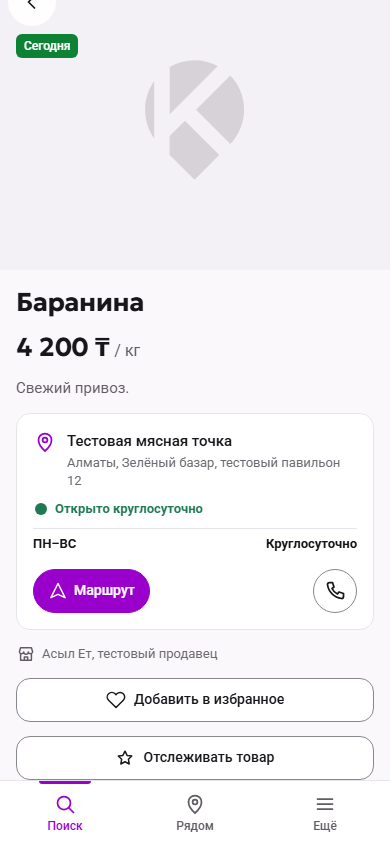
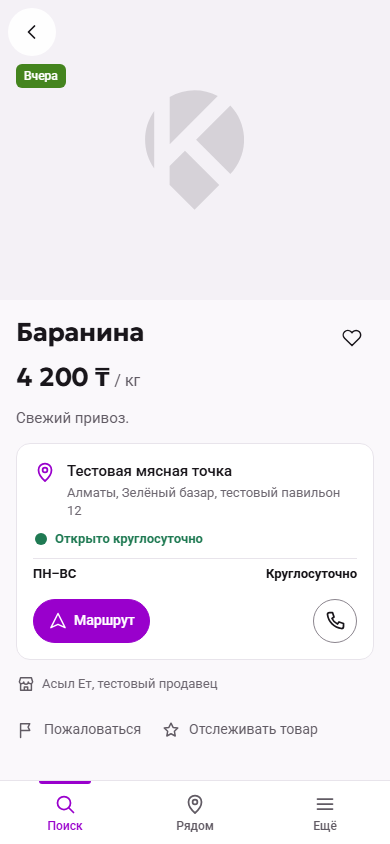
Amend Offer detail heart placement and compact text actions

diff --git a/tests/e2e/buyer-offer-reports.spec.ts b/tests/e2e/buyer-offer-reports.spec.ts
@@ -24,7 +24,7 @@ test('buyer draft survives Back/login; operator disposition keeps buyer text pri
     const set=await createCardChangeSet(sellerId,cardCreateBodySchema.parse({title:'Абрикосы отчётэ2е',productId:null,price:'1200',unit:{code:'package'},pack:{amount:'500',unit:'g'},sellerComment:'Синтетический товар',photoIds:[],points:[{locationId:seller.locations[0]!.id}]}),{database:db});
     const confirmed=await confirmSellerChangeSet(sellerId,set.id,{database:db});const offerId=confirmed.items[0]!.resultOffer!.id;
     cardId=(await pool.query('SELECT card_id FROM offers WHERE id=$1',[offerId])).rows[0].card_id;
-    await page.goto(`/offers/${offerId}`);await page.getByRole('button',{name:'Пожаловаться на карточку'}).click();
+    await page.goto(`/offers/${offerId}`);await page.getByRole('button',{name:'Пожаловаться',exact:true}).click();
     await page.getByRole('button',{name:'Цена не совпадает',exact:true}).click();
     await expect(page.getByLabel('Комментарий · необязательно')).toBeVisible();await expect(page.getByRole('button',{name:'Далее',exact:true})).toHaveCount(0);
     const privateText='PRIVATE покупатель: персональные сведения';await page.getByLabel('Комментарий · необязательно').fill(privateText);
@@ -57,7 +57,7 @@ test('buyer draft survives Back/login; operator disposition keeps buyer text pri
     await op.goto('/operator/reports');await op.getByRole('button',{name:'Закрытые',exact:true}).click();await op.getByRole('article').filter({hasText:'Абрикосы отчётэ2е'}).getByRole('button',{name:'Рассмотреть'}).click();
     await expect(op.getByRole('region',{name:'Исторический итог'})).toContainText('Карточка снята');await expect(op.getByRole('region',{name:'Сейчас'})).toContainText('На витрине');await expect(op.getByRole('region',{name:'Сейчас'})).toContainText('Позднее возвращена оператором');
     await info.attach('operator-returned-card-closed-report',{body:await op.screenshot(),contentType:'image/png'});
-    await page.goto(`/offers/${offerId}`);await page.getByRole('button',{name:'Пожаловаться на карточку'}).click();await page.getByRole('button',{name:'Другое',exact:true}).click();await page.getByLabel('Комментарий · необязательно').fill('Повторное сообщение');await page.getByRole('button',{name:'Отправить жалобу',exact:true}).click();
+    await page.goto(`/offers/${offerId}`);await page.getByRole('button',{name:'Пожаловаться',exact:true}).click();await page.getByRole('button',{name:'Другое',exact:true}).click();await page.getByLabel('Комментарий · необязательно').fill('Повторное сообщение');await page.getByRole('button',{name:'Отправить жалобу',exact:true}).click();
     await expect(page.getByText('Вы уже сообщили об этом предложении. Первое сообщение сохранено.',{exact:true})).toBeVisible();
     const saved=await pool.query('SELECT buyer_text FROM offer_reports WHERE card_id=$1',[cardId]);expect(saved.rows).toHaveLength(1);expect(saved.rows[0].buyer_text).toBe(privateText);
   }finally{

diff --git a/tests/e2e/offer-favourites.spec.ts b/tests/e2e/offer-favourites.spec.ts
@@ -99,3 +99,39 @@ test('list login never adds; Offer expiring during heart login is not saved; lis
     await pool.query('DELETE FROM buyer_offer_favourites WHERE offer_id=$1 OR user_id=$2',[offer,user]);await pool.query('DELETE FROM offers WHERE id=$1',[offer]);await pool.query('DELETE FROM locations WHERE id=$1',[point]);await pool.query('DELETE FROM sellers WHERE id=$1',[seller]);await pool.query("DELETE FROM auth_sessions WHERE user_id IN (SELECT id FROM users WHERE phone_e164=ANY($1::text[]))",[['+77000280401','+77000280402','+77000280411']]);await pool.query('DELETE FROM auth_otp_challenges WHERE phone_e164=ANY($1::text[])',[['+77000280401','+77000280411']]);await pool.query('DELETE FROM users WHERE phone_e164=ANY($1::text[])',[['+77000280401','+77000280402','+77000280411']]);await pool.end();
   }
 });
+
+test('detail actions retain touch targets and wrap at narrow widths and enlarged text', async ({ page }, info) => {
+  test.skip(info.project.name !== 'mobile', 'Approved mobile RU boundary');
+  await page.goto('/offers/' + seedIds.lambOffer);
+  const heart = page.getByTestId('favourite-heart');
+  const report = page.getByRole('button', { name: 'Пожаловаться', exact: true });
+  const tracking = page.getByRole('button', { name: 'Отслеживать товар', exact: true });
+  await expect(heart).toHaveAccessibleName('Добавить в избранное');
+  await expect(tracking).toBeEnabled();
+  for (const width of [390, 320]) {
+    await page.setViewportSize({ width, height: 844 });
+    for (const action of [heart, report, tracking]) {
+      const box = await action.boundingBox();
+      expect(box!.width).toBeGreaterThanOrEqual(44);
+      expect(box!.height).toBeGreaterThanOrEqual(44);
+    }
+    const layout = await page.locator('.offer-text-actions').evaluate(el => {
+      const boxes = [...el.querySelectorAll('button')].map(button => button.getBoundingClientRect());
+      return { overflow: el.scrollWidth > el.clientWidth, wraps: boxes[1]!.top > boxes[0]!.top };
+    });
+    expect(layout.overflow).toBe(false);
+    if (width === 320) expect(layout.wraps).toBe(true);
+  }
+  await page.addStyleTag({ content: '.kaida .offer-text-action{font-size:28px;line-height:40px}' });
+  const enlarged = await page.locator('.offer-text-actions').evaluate(el => ({ overflow: el.scrollWidth > el.clientWidth, buttons: [...el.querySelectorAll('button')].map(button => ({height:button.getBoundingClientRect().height, font:parseFloat(getComputedStyle(button).fontSize)})) }));
+  expect(enlarged.overflow).toBe(false);
+  for (const action of enlarged.buttons) { expect(action.height).toBeGreaterThanOrEqual(44); expect(action.font).toBe(28); }
+  await report.click();
+  await expect(page.getByRole('heading', { name: 'Пожаловаться на карточку', exact: true })).toBeVisible();
+  await page.getByRole('button', { name: 'Назад', exact: true }).click();
+  await expect(report).toBeFocused();
+  await heart.click();
+  await expect(page.getByRole('dialog')).toBeVisible();
+  await page.getByRole('button', { name: 'Закрыть', exact: true }).click();
+  await expect(heart).toHaveAttribute('aria-pressed', 'false');
+});

diff --git a/src/app/(buyer)/offers/[id]/BuyerOfferView.tsx b/src/app/(buyer)/offers/[id]/BuyerOfferView.tsx
@@ -88,19 +88,21 @@ export function BuyerOfferView({ offer, reporting = false }: { offer: BuyerOffer
         <OfferDetails
           offer={offer}
           back={<BackButton returnTo={returnTo} />}
+          titleAction={!preview && <button data-testid="favourite-heart" type="button" className="ib offer-favourite" aria-label={fav.active ? t('fav.saved') : t('fav.save')} aria-pressed={fav.active} aria-busy={fav.pendingId !== null} disabled={!fav.available || fav.pendingId !== null} onClick={fav.toggle}><FavouriteHeart active={fav.active} /></button>}
           footer={(
             <>
-              {reporting && previewReturn === null && <button id="report-entry" type="button" className="btn btn-o w" onClick={() => setReportOpen(true)}>{t('report.title')}</button>}
-              {!preview && <button data-testid="favourite-heart" type="button" className="btn btn-o w" aria-pressed={fav.active} aria-busy={fav.pendingId !== null} disabled={!fav.available || fav.pendingId !== null} onClick={fav.toggle}><FavouriteHeart active={fav.active} />{fav.active ? t('fav.saved') : t('fav.save')}</button>}
+              {(reporting && previewReturn === null || interest.available) && <div className="offer-text-actions">
+                {reporting && previewReturn === null && <button id="report-entry" type="button" className="act offer-text-action" onClick={() => setReportOpen(true)}><Ic name="flag" className="sm" /><span>{t('report.entry')}</span></button>}
+                {interest.available && (
+                  <button type="button" className="act offer-text-action" aria-pressed={interest.active} aria-busy={interest.pending} disabled={interest.pending} onClick={(event) => void interest.toggle(event)}>
+                    <Ic name={interest.active ? 'starf' : 'star'} className="sm" />
+                    <span>{t('offer.trackProduct')}</span>
+                  </button>
+                )}
+              </div>}
               {fav.error && <p className="emsg" role="alert">{t('fav.writeError')}</p>}
               {!preview && fav.state.kind === 'error' && <div role="alert"><p className="emsg">{t('fav.loadError')}</p><button type="button" className="btn btn-o w" onClick={() => void fav.reload()}>{t('cabinet.retry')}</button></div>}
               {fav.unavailable && <p className="b" role="status">{t('fav.unavailable')}</p>}
-              {interest.available && (
-                <button type="button" className="btn btn-o w" aria-pressed={interest.active} aria-busy={interest.pending} disabled={interest.pending} onClick={(event) => void interest.toggle(event)}>
-                  <Ic name={interest.active ? 'starf' : 'star'} className="sm" />
-                  {t('offer.trackProduct')}
-                </button>
-              )}
               {interest.error && <div className="fld"><p className="emsg" role="alert"><Ic name="alert" />{t('search.interestError')}</p></div>}
             </>
           )}

diff --git a/src/app/(buyer)/_ui/offer-details.tsx b/src/app/(buyer)/_ui/offer-details.tsx
@@ -119,13 +119,20 @@ function SellerComment({ offer }: { offer: BuyerOfferPage }) {
   );
 }
 
-export function OfferDetails({ offer, back, inert = false, footer }: { offer: BuyerOfferPage; back: ReactNode; inert?: boolean; footer?: ReactNode }) {
+export function OfferDetails({ offer, back, inert = false, titleAction, footer }: { offer: BuyerOfferPage; back: ReactNode; inert?: boolean; titleAction?: ReactNode; footer?: ReactNode }) {
   return (
     <>
       <Gallery offer={offer} back={back} />
       <article style={{ display: 'flex', flexDirection: 'column', gap: 14, padding: 16 }} aria-labelledby="offer-title">
-        <h1 className="h1" id="offer-title" lang={offer.product.nameLocale}>{offer.product.name}</h1>
-        <PriceLine offer={offer} large />
+        {titleAction ? (
+          <div className="offer-heading">
+            <div className="offer-heading-copy">
+              <h1 className="h1" id="offer-title" lang={offer.product.nameLocale}>{offer.product.name}</h1>
+              <PriceLine offer={offer} large />
+            </div>
+            {titleAction}
+          </div>
+        ) : <><h1 className="h1" id="offer-title" lang={offer.product.nameLocale}>{offer.product.name}</h1><PriceLine offer={offer} large /></>}
         <SellerComment
           key={`${offer.sellerCommentTranslation?.status ?? 'original'}:${offer.sellerCommentTranslation?.status === 'translated' ? offer.sellerCommentTranslation.locale : ''}`}
           offer={offer}

diff --git a/src/app/seller/kaida-app.css b/src/app/seller/kaida-app.css
@@ -115,3 +115,14 @@
 .kaida .act .ic{flex:none;text-decoration:none}
 .kaida .act:disabled{color:var(--ink3);cursor:default}
 .kaida .act:focus-visible{outline:2px solid var(--focus);outline-offset:2px;border-radius:4px}
+
+/* Offer favourites: PO-approved detail presentation; text and targets wrap without shrinking. */
+.kaida .offer-heading{display:flex;align-items:flex-start;gap:12px}
+.kaida .offer-heading-copy{flex:1;min-width:0;display:flex;flex-direction:column;gap:14px;overflow-wrap:anywhere}
+.kaida .offer-favourite{width:44px;height:44px;color:var(--ink)}
+.kaida .offer-favourite[aria-pressed="true"]{color:var(--primary-text)}
+.kaida .offer-favourite:disabled{color:var(--ink3);cursor:default}
+.kaida .offer-favourite:focus-visible{outline:2px solid var(--focus);outline-offset:2px}
+.kaida .offer-text-actions{display:flex;flex-wrap:wrap;align-items:center;column-gap:20px;row-gap:4px}
+.kaida .offer-text-action{min-width:44px;max-width:100%;flex:0 1 auto;text-decoration:none;color:var(--ink2)}
+.kaida .offer-text-action>span{min-width:0;overflow-wrap:anywhere}

diff --git a/src/i18n/messages.ts b/src/i18n/messages.ts
@@ -13,6 +13,7 @@ export const ru = {
   'fav.loadError': "Не удалось загрузить избранное. Повторите.",
   'fav.writeError': "Не удалось изменить избранное. Повторите.",
   'fav.back': "Назад в избранное",
+  'report.entry':'Пожаловаться',
   'report.title':'Пожаловаться на карточку',
   'report.whatWrong':'Что не так?',
   'report.reason.price_mismatch':'Цена не совпадает',
@@ -895,6 +896,7 @@ export const kk = {
   'fav.loadError': "Таңдаулыларды жүктеу мүмкін болмады. Қайталаңыз.",
   'fav.writeError': "Таңдаулыларды өзгерту мүмкін болмады. Қайталаңыз.",
   'fav.back': "Таңдаулыларға оралу",
+  'report.entry':'Шағымдану',
   'report.title':'Карточкаға шағымдану',
   'report.whatWrong':'Не дұрыс емес?',
   'report.reason.price_mismatch':'Баға сәйкес емес',

diff --git a/docs/slices/offer-favourites/SLICE_CONTRACT.md b/docs/slices/offer-favourites/SLICE_CONTRACT.md
@@ -20,6 +20,12 @@ Buyer saves a specific Offer at its trading point with a heart, revisits its cur
 - Existing guest modal preserves intent for the exact Offer+point after explicit heart click; no save before login. Successful login revalidates and performs that one save automatically, then returns to same Offer/list context; cancel leaves original screen, no write. If unavailable after login, show unavailable, no save. Direct favourites visit signed out shows sign-in action; successful login loads only that account's list, never auto-adds an Offer.
 - Empty list: «Пока нет избранных предложений» / «Сохраняйте предложения сердечком на странице товара.» / existing Search action. Loading uses card-shaped skeletons; service failure is a retryable error, never converted into unavailable/deleted/empty. Logout/account switch immediately clears private list and pending intent; late responses cannot restore old-account data.
 
+## 2.1 PO presentation amendment — 2026-10-13
+
+Approved for the current Offer-detail acceptance build: move the existing Offer heart below the gallery, right-aligned beside the title/price block. Icon only, no visible label, border or background; outline unsaved and filled saved, using existing app icon/colours (the PO annotation marks placement, not red). Preserve at least44px by44px touch target, keyboard focus, accessible «Добавить в избранное» / «В избранном», aria-pressed/busy and unchanged pending/save/login/error behaviour.
+
+Replace the full-width report and Product tracking controls with a compact horizontal row of borderless, panel-free text actions: existing flag + «Пожаловаться» and existing star + «Отслеживать товар». Preserve report entry/return focus, its existing flow/auth/privacy and Product selection semantics. Both actions keep at least44px touch targets and existing readable text size. Wrap whole actions onto another row at narrow widths or large text; if one action itself cannot fit, its text wraps by words rather than shrinking text/targets or overflowing. Seller previews suppress these mutations as before. This presentation-only amendment supersedes the prior detail-control placement, visible heart label and report-entry label; list/unavailable/media/API/data boundaries remain unchanged.
+
 ## 3. Approved unavailable exception
 
 [UNAVAILABLE_PROPOSAL.md](UNAVAILABLE_PROPOSAL.md) supersedes the previous universal neutral-tombstone draft. Use one recognisable private saved card for an existing non-operator-removed Offer at the same point after confirmation expiry OR Seller switch-off. Expired-active uses only ordinarily authorized current attached cover; switched-off always uses existing neutral KAIDA placeholder and exposes no photo locator. Retain confirmed title, public seller display name and point name; no price, address/comment, contact/route/purchase actions, detail link or actuality badge. Explicit unavailable status, muted accents, full text contrast; removal usable. Restore normal presentation only when exact same Offer+point passes common buyer eligibility again.

diff --git a/docs/slices/offer-favourites/ACCEPTANCE.md b/docs/slices/offer-favourites/ACCEPTANCE.md
@@ -4,6 +4,12 @@ PO approval is recorded in the owning contract and the explicit S1/S5, actuality
 
 The new heart and private list use current Offer data. An owner-only unavailable projection retains only title, public seller name and point name. Expired-active uses the current cover only through existing public media authorization; switched-off never returns a photo locator. Deleted/operator-removed entries are absent from both list and count. The additive `0028` table retains only the approved internal reference and cascades on account erasure. PO wording revision supersedes previous disable/notice/temporary-label instructions: Product button «Отслеживать товар» in both selected/unselected states, heart «Добавить в избранное»/«В избранном». Authentication/error/accessibility wording follows these labels. Existing S13 selection behavior/API/data remain intact; no tracking notifications are activated. Public Search, Nearby, detail and media predicates are unchanged.
 
+## PO presentation amendment — 2026-10-13
+
+Approved icon-only heart below the gallery beside title/price; borderless flag «Пожаловаться» and star «Отслеживать товар» row. Existing handlers, accessibility state/login, report focus return and privacy remain unchanged. At390px the two text actions share one row; at320px they wrap onto separate rows. Doubled text keeps targets at least44px, readable wrapping and no action-row horizontal overflow.
+
+Local amended-head lint/types/production build PASS. Affected production-browser regressions:23 PASS/5 existing mobile-boundary skips, including new narrow/large-text targets, report return focus and guest-heart cancellation. Final amended-SHA full CI evidence belongs to PR175; earlier verification below describes the preceding implementation revision.
+
 ## Automated proof
 
 Local lint, route types/TypeScript and production build pass. Full unit regression: 523 passing tests. Seven real PostgreSQL checks cover owner isolation, anonymous/override rejection, exact point identity, current prices, expiry boundary, inactive photo stripping, restoration, moderation/deletion/changed-point exclusion, retained-reference removal, concurrent idempotency, save-versus-moderation locking, and additive upgrade preservation of every pre-existing table including nonempty S13/photos.
@@ -32,6 +38,10 @@ Both new mobile browser flows pass against the production build: guest cancellat
 Acceptance scope: mobile Russian UI; Kazakh text remains provisional under the existing localization gate. STOP for PO acceptance of the exact final SHA. Do not merge the implementation or tag. Voice/translation remain paused; tracking, paid services and public launch are unauthorized.
 
 ## Implemented screenshots
+
+![Narrow detail with wrapped actions](evidence/detail-narrow.png)
+
+![Doubled text at320px](evidence/detail-large-text.png)
 
 ![Approved Product action and Offer heart labels](evidence/product-action.png)
 

diff --git a/docs/slices/buyer-offer-reports/SLICE_CONTRACT.md b/docs/slices/buyer-offer-reports/SLICE_CONTRACT.md
@@ -116,3 +116,5 @@ Clarification acceptance extension: after return, the seller replaces the report
 ## 7. Approved queue insertion
 
 PO approved `buyer-offer-reports` as the next local development slice after the closed auth checkpoint, a bounded subset of S-REVIEWS/S-OPERATOR. The rest of those workstreams and other candidate order remain unchanged. Docs publication precedes a separate implementation branch. Full branch CI and PO manual acceptance are required before implementation merge/tag. No real-user reporting, production retention approval, new Issues or voice research resume.
+
+PO presentation amendment, 2026-10-13: the current Offer-favourites acceptance build uses the icon-only heart beside title/price and compact «Пожаловаться» / «Отслеживать товар» text row defined in [Offer favourites §2.1](../offer-favourites/SLICE_CONTRACT.md#21-po-presentation-amendment--2026-10-13). Existing action, login, focus-return and privacy semantics remain unchanged.

diff --git a/docs/slices/buyer-screens-mockup/SLICE_CONTRACT.md b/docs/slices/buyer-screens-mockup/SLICE_CONTRACT.md
@@ -143,3 +143,5 @@ c. The result card follows B01; seller name, seller comment and `В избран
 d. This stage goes first after stage 1, before the Seller Location geo fallback.
 e. No permanent language switch and no `Войти` in the top bars, for the buyer and the seller: the language is chosen
    once at the first visit and later in «Ещё»; sign-in / sign-out live in «Ещё» and appear where an action needs them.
+
+PO presentation amendment, 2026-10-13: the current Offer-favourites acceptance build uses the icon-only heart beside title/price and compact «Пожаловаться» / «Отслеживать товар» text row defined in [Offer favourites §2.1](../offer-favourites/SLICE_CONTRACT.md#21-po-presentation-amendment--2026-10-13). Existing action, login, focus-return and privacy semantics remain unchanged.
